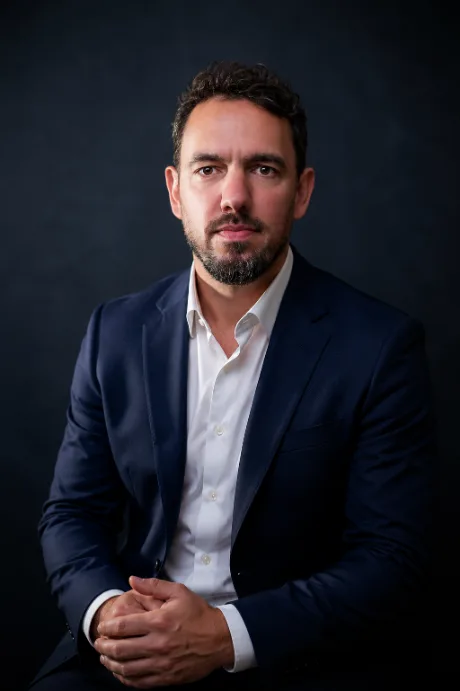
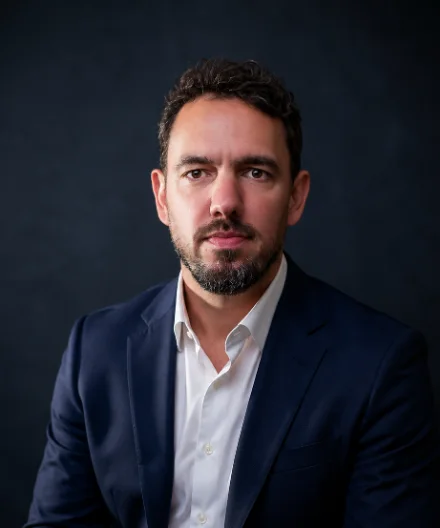
Lucas Sobreiro: corrige o tamanho da foto no bloco de autoridade
A foto tinha ficado enorme e comprida demais. Duas causas:

1. Enquadramento. A origem e 2:3, entao foto inteira com rosto grande vira
   um bloco altissimo por construcao. Trocado por um recorte de cabeca e
   tronco em 5:6, que mantem o rosto grande e encurta o bloco.

2. Bug de CSS. A regra tinha aspect-ratio 5/6 mas a foto renderizava
   200x528, nao 200x240: sem height:auto, o atributo height do <img> vence
   a proporcao. Era isso que deixava a imagem esticada mesmo depois de eu
   trocar o recorte. Medido no navegador, nao olhando print.

Bloco de autoridade caiu de 1216px para 928px de altura.

O primeiro deploy do Quiz A falhou com "fetch failed" e producao ficou
servindo a versao antiga. A conferencia byte a byte pegou (foto ainda com
16244 bytes), refeito e agora 34 de 34 arquivos identicos nos dois funis.

Claude-Session: https://claude.ai/code/session_01FMSfEwDQJxPwZj5uT4dAVC

diff --git a/clientes/lucas-sobreiro/funis/raio-x-clinica/diagnostico.html b/clientes/lucas-sobreiro/funis/raio-x-clinica/diagnostico.html
@@ -110,12 +110,12 @@
     }
     .autoridade .quem {
       display: flex; flex-direction: column; align-items: center;
-      text-align: center; gap: 14px; margin-bottom: 20px;
+      text-align: center; gap: 12px; margin-bottom: 18px;
     }
     .autoridade .foto {
-      width: 100%; max-width: 290px; aspect-ratio: 1023 / 1537;
+      width: 100%; max-width: 200px; height: auto; aspect-ratio: 5 / 6;
       object-fit: cover; display: block;
-      border-radius: var(--radius); border: 1px solid var(--border);
+      border-radius: var(--radius-sm); border: 1px solid var(--border);
       background: var(--bg-2);
     }
     .autoridade .nome { font-family: var(--font-serif); font-size: 19px; font-weight: 700; margin: 0; }

diff --git a/clientes/lucas-sobreiro/funis/diagnostico-clinica/diagnostico.html b/clientes/lucas-sobreiro/funis/diagnostico-clinica/diagnostico.html
@@ -86,12 +86,12 @@
     }
     .autoridade .quem {
       display: flex; flex-direction: column; align-items: center;
-      text-align: center; gap: 14px; margin-bottom: 20px;
+      text-align: center; gap: 12px; margin-bottom: 18px;
     }
     .autoridade .foto {
-      width: 100%; max-width: 290px; aspect-ratio: 1023 / 1537;
+      width: 100%; max-width: 200px; height: auto; aspect-ratio: 5 / 6;
       object-fit: cover; display: block;
-      border-radius: var(--radius); border: 1px solid var(--border);
+      border-radius: var(--radius-sm); border: 1px solid var(--border);
       background: var(--bg-2);
     }
     .autoridade .nome { font-family: var(--font-serif); font-size: 19px; font-weight: 700; margin: 0; }

diff --git a/clientes/lucas-sobreiro/funis/diagnostico-clinica/diagnostico.js b/clientes/lucas-sobreiro/funis/diagnostico-clinica/diagnostico.js
@@ -187,7 +187,7 @@ function montarRelatorio() {
 
     <div class="autoridade">
       <div class="quem">
-        <img class="foto" src="lucas-sobreiro.webp" width="460" height="691" loading="lazy"
+        <img class="foto" src="lucas-sobreiro.webp" width="440" height="528" loading="lazy"
              alt="Lucas Sobreiro, mentor de evolução empresarial para donos de clínica." />
         <div>
           <p class="nome">Lucas Sobreiro</p>

diff --git a/clientes/lucas-sobreiro/funis/raio-x-clinica/diagnostico.js b/clientes/lucas-sobreiro/funis/raio-x-clinica/diagnostico.js
@@ -186,7 +186,7 @@ function montarRelatorio() {
 
     <div class="autoridade">
       <div class="quem">
-        <img class="foto" src="lucas-sobreiro.webp" width="460" height="691" loading="lazy"
+        <img class="foto" src="lucas-sobreiro.webp" width="440" height="528" loading="lazy"
              alt="Lucas Sobreiro, mentor de evolução empresarial para donos de clínica." />
         <div>
           <p class="nome">Lucas Sobreiro</p>
